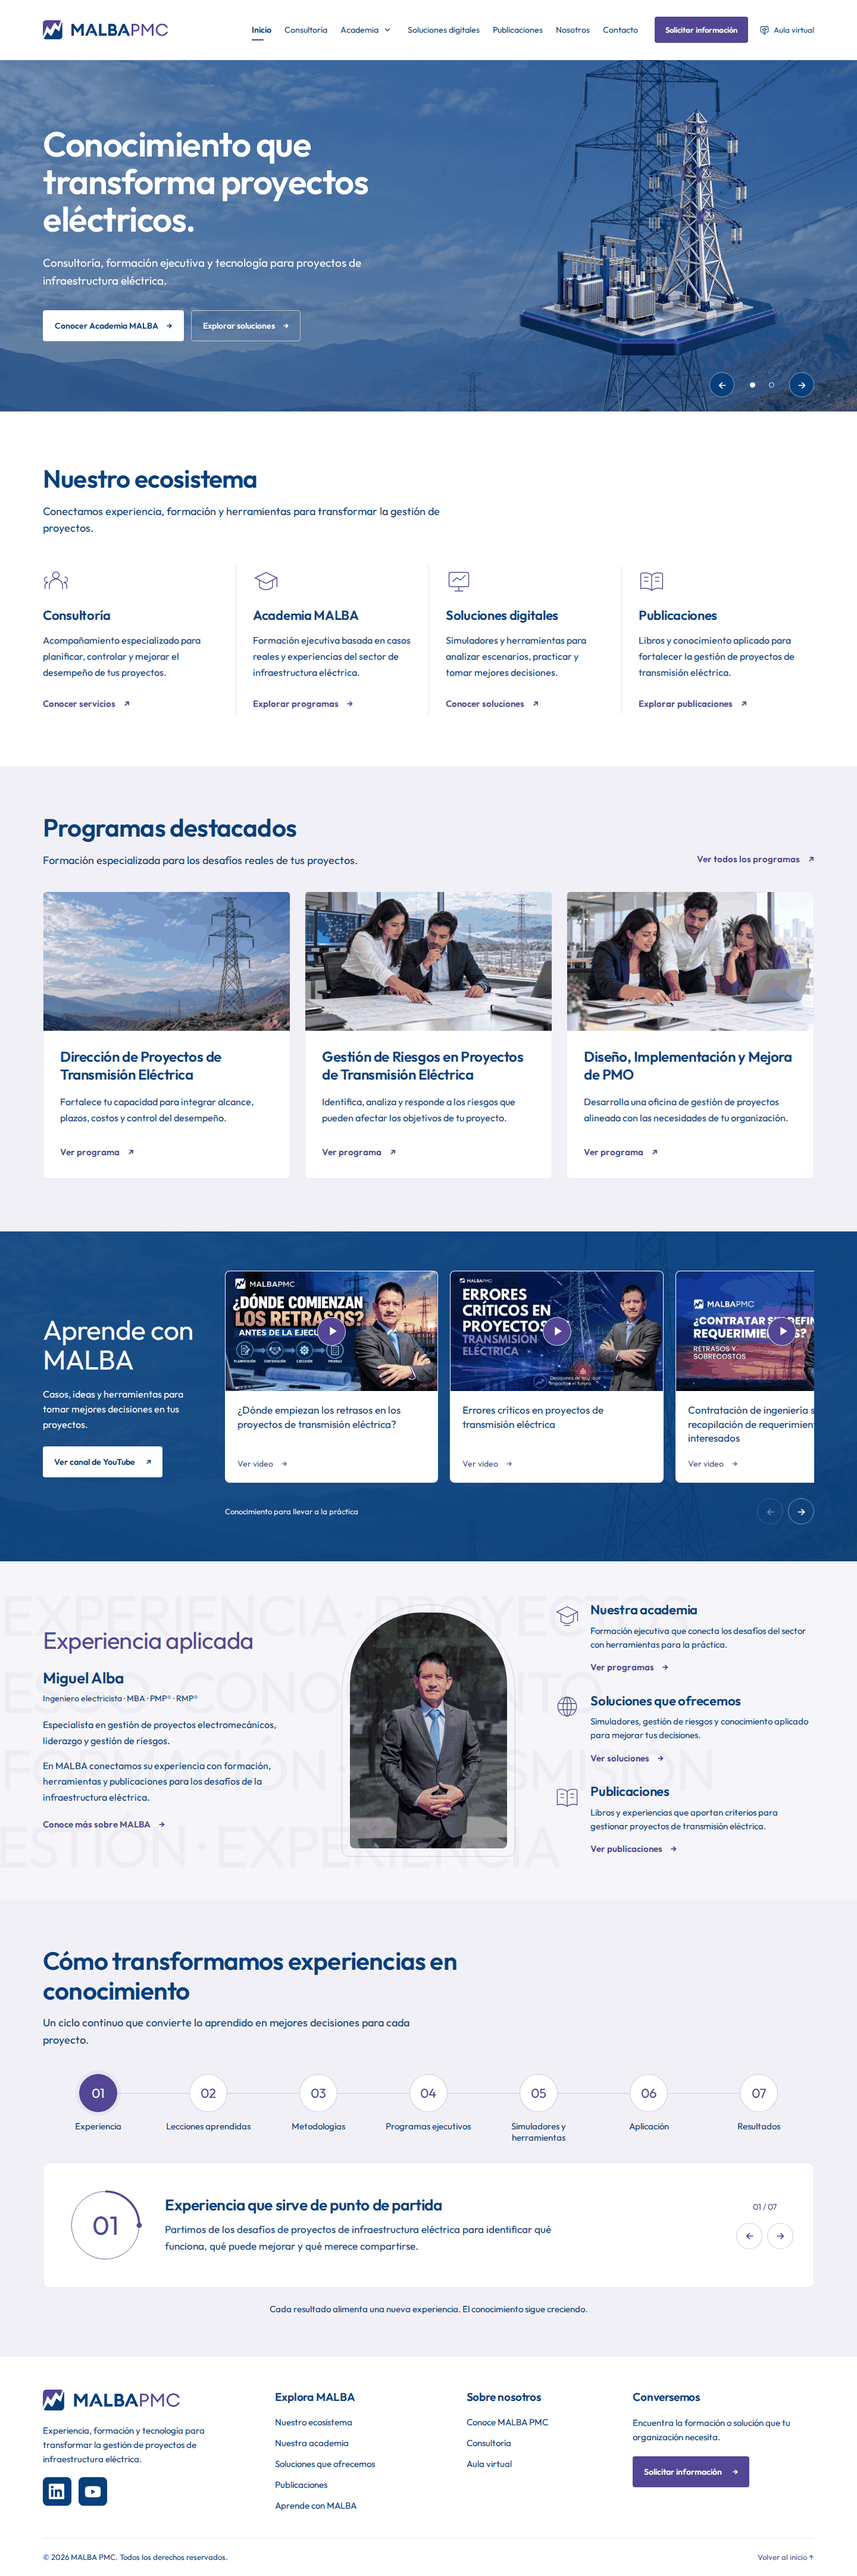
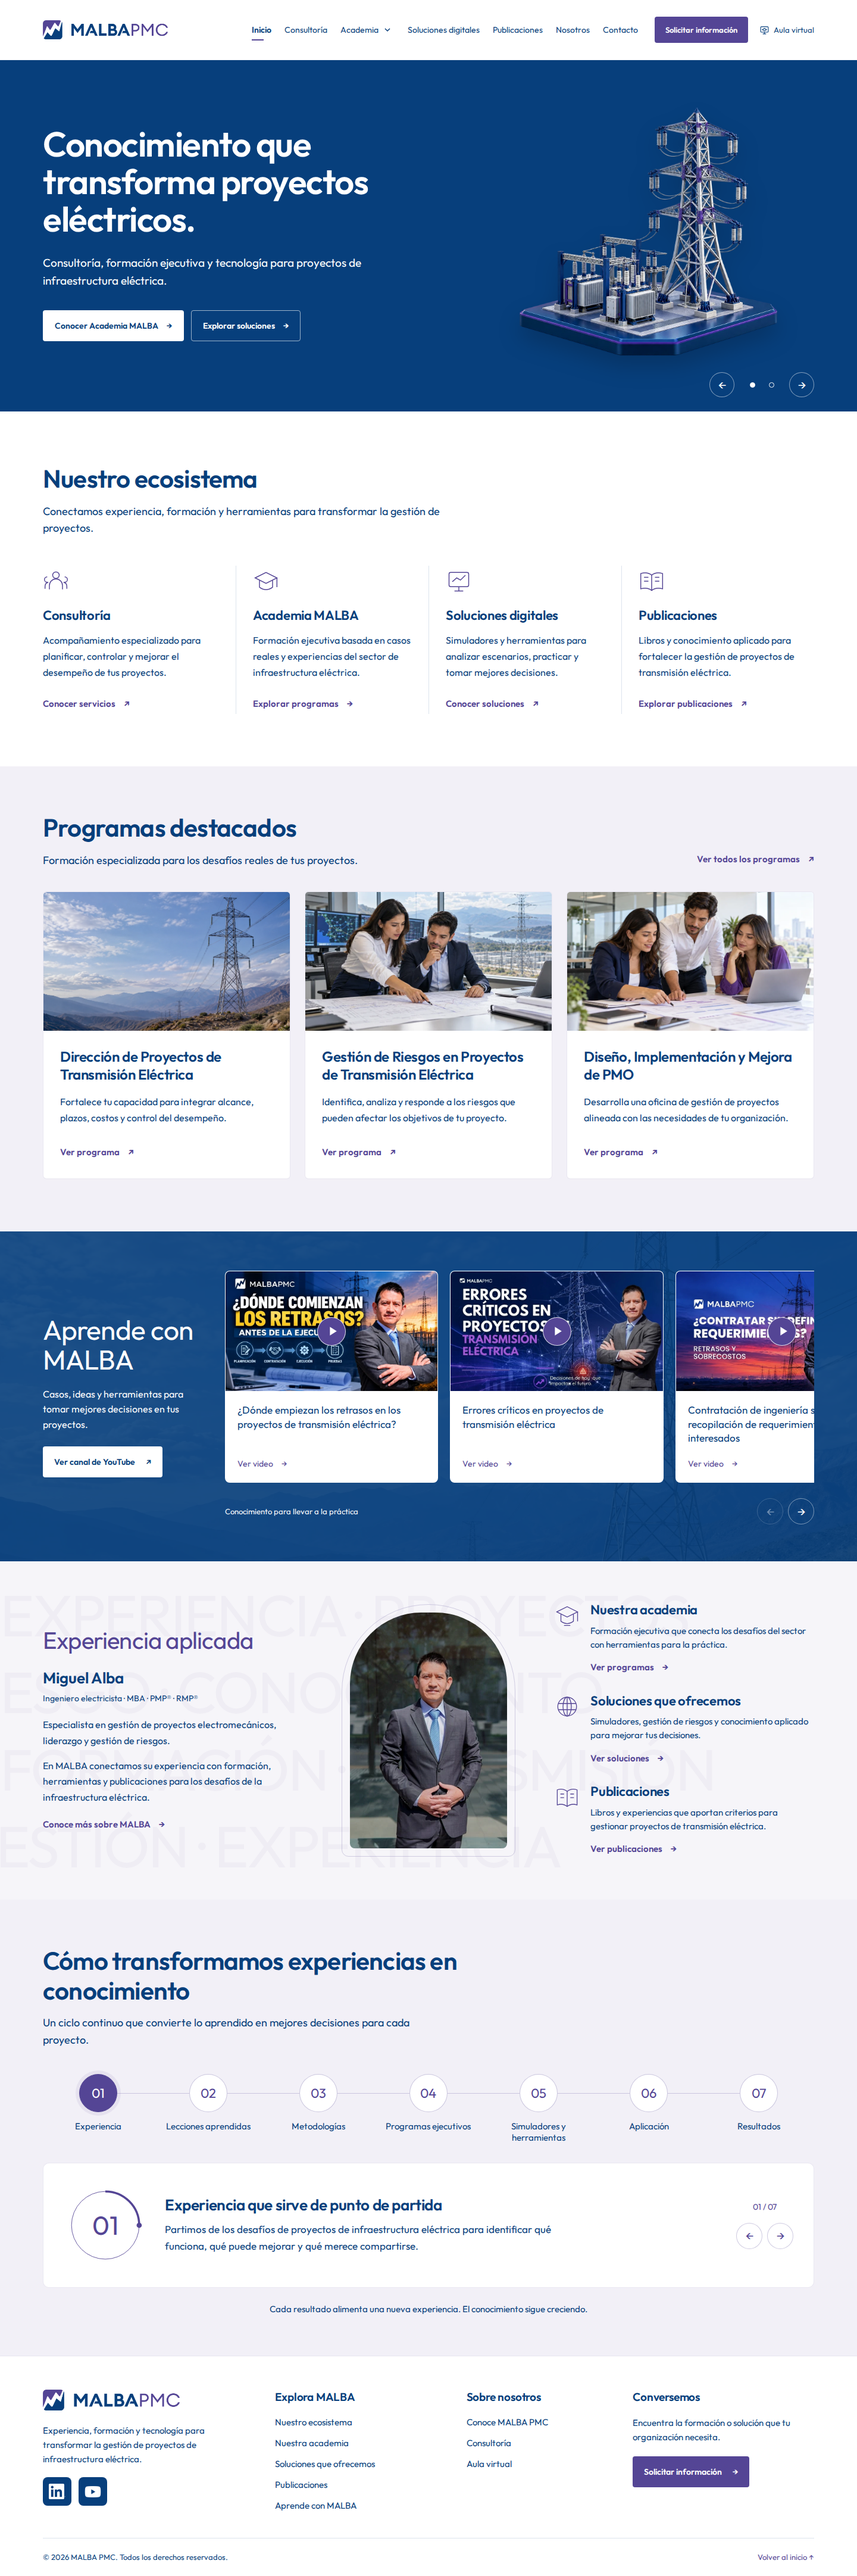
Improve hero contrast and assemble infrastructure illustration on first visit

diff --git a/index.html b/index.html
@@ -3,6 +3,15 @@
   <head>
     <meta charset="utf-8" />
     <meta name="viewport" content="width=device-width, initial-scale=1" />
+    <script>
+      // Prepare the first-visit animation before paint; static fallback after 3.5 s.
+      try {
+        if (!matchMedia('(prefers-reduced-motion: reduce)').matches && !sessionStorage.getItem('malba-hero-assembly-v1')) {
+          document.documentElement.classList.add('hero-assembly-pending');
+          setTimeout(() => document.documentElement.classList.remove('hero-assembly-pending'), 3500);
+        }
+      } catch (_) { /* Storage unavailable: display the complete model. */ }
+    </script>
     <title>MALBA PMC | Gestión de proyectos de infraestructura eléctrica</title>
     <meta
       name="description"
@@ -189,27 +198,24 @@
                   <a class="button button-outline" href="#soluciones">Explorar soluciones <span aria-hidden="true">→</span></a>
                 </div>
               </div>
-              <div class="hero-showcase hero-showcase-3d" aria-hidden="true">
-                <picture>
+              <div class="hero-showcase hero-showcase-3d" data-hero-assembly aria-hidden="true">
+                <picture class="hero-assembly-rest">
                   <source media="(max-width: 760px)" srcset="assets/hero/infraestructura-3d-640.webp">
-                  <img src="assets/hero/infraestructura-3d-1280.webp" width="1280" height="1170" alt="" decoding="async">
+                  <img src="assets/hero/infraestructura-3d-1280.webp" width="1280" height="1170" alt="" decoding="async" fetchpriority="high">
+                </picture>
+                <picture class="hero-assembly-part hero-part-base" data-assembly-part="base">
+                  <source media="(max-width: 760px)" srcset="assets/hero/infraestructura-3d-640.webp">
+                  <img src="assets/hero/infraestructura-3d-1280.webp" width="1280" height="1170" alt="" decoding="async" fetchpriority="high">
+                </picture>
+                <picture class="hero-assembly-part hero-part-module" data-assembly-part="module">
+                  <source media="(max-width: 760px)" srcset="assets/hero/infraestructura-3d-640.webp">
+                  <img src="assets/hero/infraestructura-3d-1280.webp" width="1280" height="1170" alt="" decoding="async" fetchpriority="high">
+                </picture>
+                <picture class="hero-assembly-part hero-part-tower" data-assembly-part="tower">
+                  <source media="(max-width: 760px)" srcset="assets/hero/infraestructura-3d-640.webp">
+                  <img src="assets/hero/infraestructura-3d-1280.webp" width="1280" height="1170" alt="" decoding="async" fetchpriority="high">
                 </picture>
               </div>
-            </div>
-            <div class="hero-visual" aria-hidden="true">
-              <img
-                src="assets/banner-transmision-1672.webp"
-                srcset="
-                  assets/banner-transmision-960.webp   960w,
-                  assets/banner-transmision-1672.webp 1672w
-                "
-                sizes="100vw"
-                width="1672"
-                height="941"
-                fetchpriority="high"
-                decoding="async"
-                alt=""
-              />
             </div>
           </section>
           <section

diff --git a/home-sections.css b/home-sections.css
@@ -900,10 +900,10 @@ body:has(#video-dialog[open]) { overflow: hidden; }
 .hero-with-showcase #hero-title { font-size: clamp(38px,4.05vw,60px); }
 .hero-with-showcase .hero-actions { gap: 12px; }
 .hero-with-showcase .hero-actions .button { font-size: 14px; padding: 0 19px; gap: 14px; }
-.hero-showcase-3d { position: relative; width: 100%; max-width: 560px; height: 430px; justify-self: end; }
-.hero-showcase-3d picture { display: block; width: 100%; height: 100%; }
-.hero-showcase-3d img { display: block; width: 100%; height: 100%; object-fit: contain; filter: drop-shadow(0 18px 18px rgba(7,63,124,.2)); animation: malba-3d-arrive .8s ease both; }
-@keyframes malba-3d-arrive { from { opacity: 0; transform: translateY(14px); } to { opacity: 1; transform: translateY(0); } }
+.hero-showcase-3d { position: relative; width: 100%; max-width: 560px; height: 430px; justify-self: end; filter: drop-shadow(0 18px 18px rgba(0,0,0,.18)); pointer-events: none; }
+.hero-showcase-3d picture { position: absolute; inset: 0; display: block; width: 100%; height: 100%; }
+.hero-showcase-3d img { display: block; width: 100%; height: 100%; object-fit: contain; }
+
 @media (max-width: 1130px) and (min-width: 761px) {
   .hero-with-showcase .hero-copy { gap: 32px; grid-template-columns: 1.2fr 1fr; }
   .hero-with-showcase #hero-title { font-size: clamp(32px,4.05vw,46px); }
@@ -926,5 +926,30 @@ body:has(#video-dialog[open]) { overflow: hidden; }
   .hero-showcase-3d { height: 190px; }
 }
 @media (prefers-reduced-motion: reduce) {
-  .hero-showcase-3d img { animation: none; }
+  .hero-assembly-part { animation: none !important; opacity: 1 !important; transform: none !important; }
+}
+
+/* A single, clean brand background gives the 3D object full contrast. */
+.hero-with-showcase { background: var(--blue); }
+.hero-with-showcase::after, .hero-with-showcase:hover::after, .hero-with-showcase:focus-within::after { background: transparent; }
+/* Three aligned slices reuse one transparent image and assemble seamlessly. */
+.hero-part-base { clip-path: inset(83% 0 0); }
+.hero-part-module { clip-path: inset(49.9% 0 16.9%); }
+.hero-part-tower { clip-path: inset(0 0 50%); }
+.hero-assembly-part { visibility: hidden; }
+.hero-assembly-pending .hero-assembly-rest, .is-assembling .hero-assembly-rest { opacity: 0; }
+.is-assembling .hero-assembly-part { visibility: visible; }
+.is-assembling .hero-assembly-part { animation: malba-assembly-drop .65s cubic-bezier(.2,.75,.35,1) both; }
+.is-assembling .hero-part-module { animation-delay: .65s; }
+.is-assembling .hero-part-tower { animation-delay: 1.3s; }
+@keyframes malba-assembly-drop {
+  0% { opacity: 0; transform: translateY(-480px); }
+  15% { opacity: 1; }
+  72% { opacity: 1; transform: translateY(0); }
+  86% { opacity: 1; transform: translateY(-6px); }
+  100% { opacity: 1; transform: translateY(0); }
+}
+@media (prefers-reduced-motion: reduce) {
+  .hero-assembly-pending .hero-assembly-rest, .is-assembling .hero-assembly-rest { opacity: 1; }
+  .is-assembling .hero-assembly-part { animation: none; visibility: hidden; }
 }

diff --git a/home-sections.js b/home-sections.js
@@ -3,6 +3,28 @@ const heroSlides = [...document.querySelectorAll(".hero-slide")];
 const heroDots = [...document.querySelectorAll("[data-slide-to]")];
 const sliderStatus = document.querySelector("#slider-status");
 const motionPreference = matchMedia("(prefers-reduced-motion: reduce)");
+// Assemble once per browsing session, after decoding the shared image.
+const heroAssembly = document.querySelector('[data-hero-assembly]');
+async function startHeroAssembly() {
+  if (!heroAssembly || !document.documentElement.classList.contains('hero-assembly-pending')) return;
+  try {
+    await Promise.all([...heroAssembly.querySelectorAll('img')].map(img => img.decode()));
+    if (motionPreference.matches || !document.documentElement.classList.contains('hero-assembly-pending')) return;
+    try { sessionStorage.setItem('malba-hero-assembly-v1', 'seen'); } catch (_) {}
+    heroAssembly.classList.add('is-assembling');
+    const finish = () => heroAssembly.classList.remove('is-assembling');
+    heroAssembly.querySelector('.hero-part-tower').addEventListener('animationend', finish, {once:true});
+    setTimeout(finish, 2300);
+  } catch (_) { /* Decode failed: keep the normal image fallback. */ }
+  finally { document.documentElement.classList.remove('hero-assembly-pending'); }
+}
+startHeroAssembly();
+motionPreference.addEventListener('change', event => {
+  if (event.matches) {
+    document.documentElement.classList.remove('hero-assembly-pending');
+    heroAssembly?.classList.remove('is-assembling');
+  }
+});
 let activeHeroSlide = 0;
 let heroScrollFrame = 0;
 function fitHeroHeight() {

diff --git a/docs/hero-3d-design.md b/docs/hero-3d-design.md
@@ -7,3 +7,9 @@ Archivos publicados: `assets/hero/infraestructura-3d-1280.webp` (1280 × 1170) y
 ## Prompt utilizado
 
 Use case: stylized-concept. Asset type: premium 3D transparent cutout for the right side of MALBA PMC electrical project management consulting homepage hero. Create a striking, sophisticated architectural scale model: a single tall electrical transmission lattice tower and a compact electrical substation with two transformers and porcelain insulators, on a clean low beveled square plinth viewed in three-quarter isometric perspective. Tower dominates with elegant detailed structural bracing, strong silhouette and realistic engineering proportions. Short clean power lines terminate within the composition, nothing cut off. Luxury architectural visualization, polished precision manufactured surfaces, physically realistic 3D, contemporary professional corporate aesthetic, dramatic yet tasteful studio lighting. Strict palette of deep MALBA blue #003B73 and royal purple #5D4594, white porcelain and subtle pale silver-blue highlights. Tower predominantly bright satin white-silver with blue accents so it reads clearly against dark blue website photography. Base deep blue with purple edge accents. One cohesive model, centered, entire object visible with comfortable transparent margin. Real transparent alpha background, no environment, no rectangular backdrop, no sky, no text, no logo, no people, no charts, no UI panels, no gradients as decorative backgrounds, no neon glow, no cartoon toys, no cables extending out of frame. High detail clean edges and premium photorealistic material rendering.
+
+## Fondo y entrada por partes
+
+El primer banner utiliza azul sólido #073F7C, sin fotografía de torres detrás. La animación reutiliza la misma ilustración mediante tres capas recortadas con CSS: base, módulo central y torre. No requiere un motor 3D ni recursos adicionales. Al terminar muestra una sola imagen completa.
+
+`home-sections.js` registra la entrada con `sessionStorage` bajo `malba-hero-assembly-v1`. Se reproduce una vez por sesión de pestaña y respeta `prefers-reduced-motion`. Sin JavaScript, almacenamiento o animación, la alternativa es la ilustración completa.

diff --git a/docs/VALIDATION.md b/docs/VALIDATION.md
@@ -18,3 +18,9 @@ Se añadió una composición con fotografía de profesionales y captura real del
 ### Banner con infraestructura 3D
 
 La composición fotográfica fue sustituida por una ilustración 3D original con torre y subestación en colores MALBA. Los WebP de 1280 y 640 px preservan el canal alfa (rango 0–255), y el fondo se integra con la fotografía existente. Comprobados los diez anchos de la revisión anterior (320–1920 px): título de tres líneas, controles y botones sin solapamientos, cambio al libro y regreso, ausencia de desbordamiento de página y errores de recursos locales/JavaScript. La animación de entrada respeta la preferencia de movimiento reducido. Capturas de home actualizadas.
+
+### Contraste y ensamblaje del modelo
+
+Se retiró la fotografía del primer banner para mostrar una sola torre sobre azul MALBA sólido (#073F7C). La ilustración entra en tres capas alineadas: base, módulo central y torre, con retrasos de 0, 650 y 1300 ms. Al terminar se sustituye por la imagen completa para evitar uniones visibles. La secuencia se reproduce una vez por sesión de pestaña; recargar no la repite.
+
+Verificados los tres estados de ensamblaje, la recarga y diez anchos entre 320 y 1920 px: sin desbordamiento horizontal, título de máximo tres líneas, fondo correcto, navegación al libro y regreso, sin recursos locales faltantes ni errores JavaScript. Con movimiento reducido o JavaScript desactivado se muestra el modelo completo. Actualizadas las capturas de escritorio y celular. `node --check home-sections.js` y `git diff --check` correctos.
